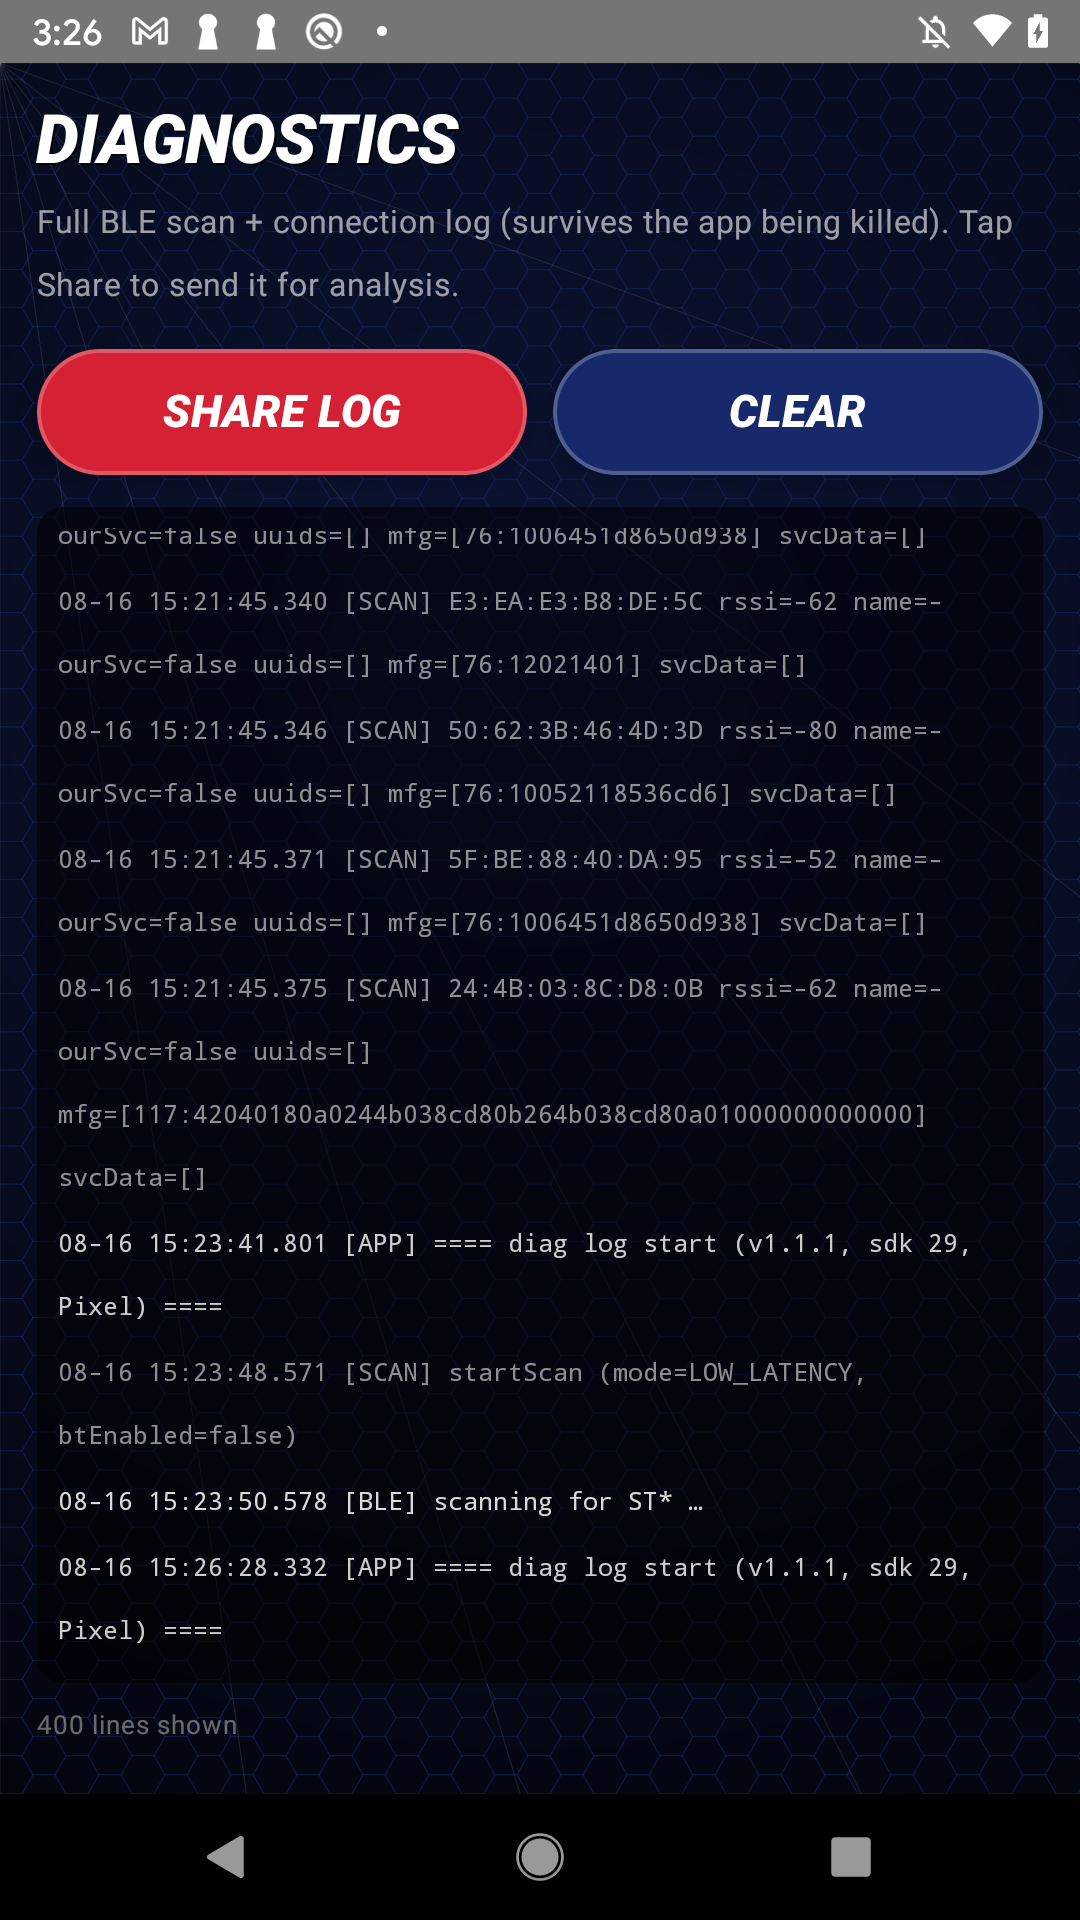
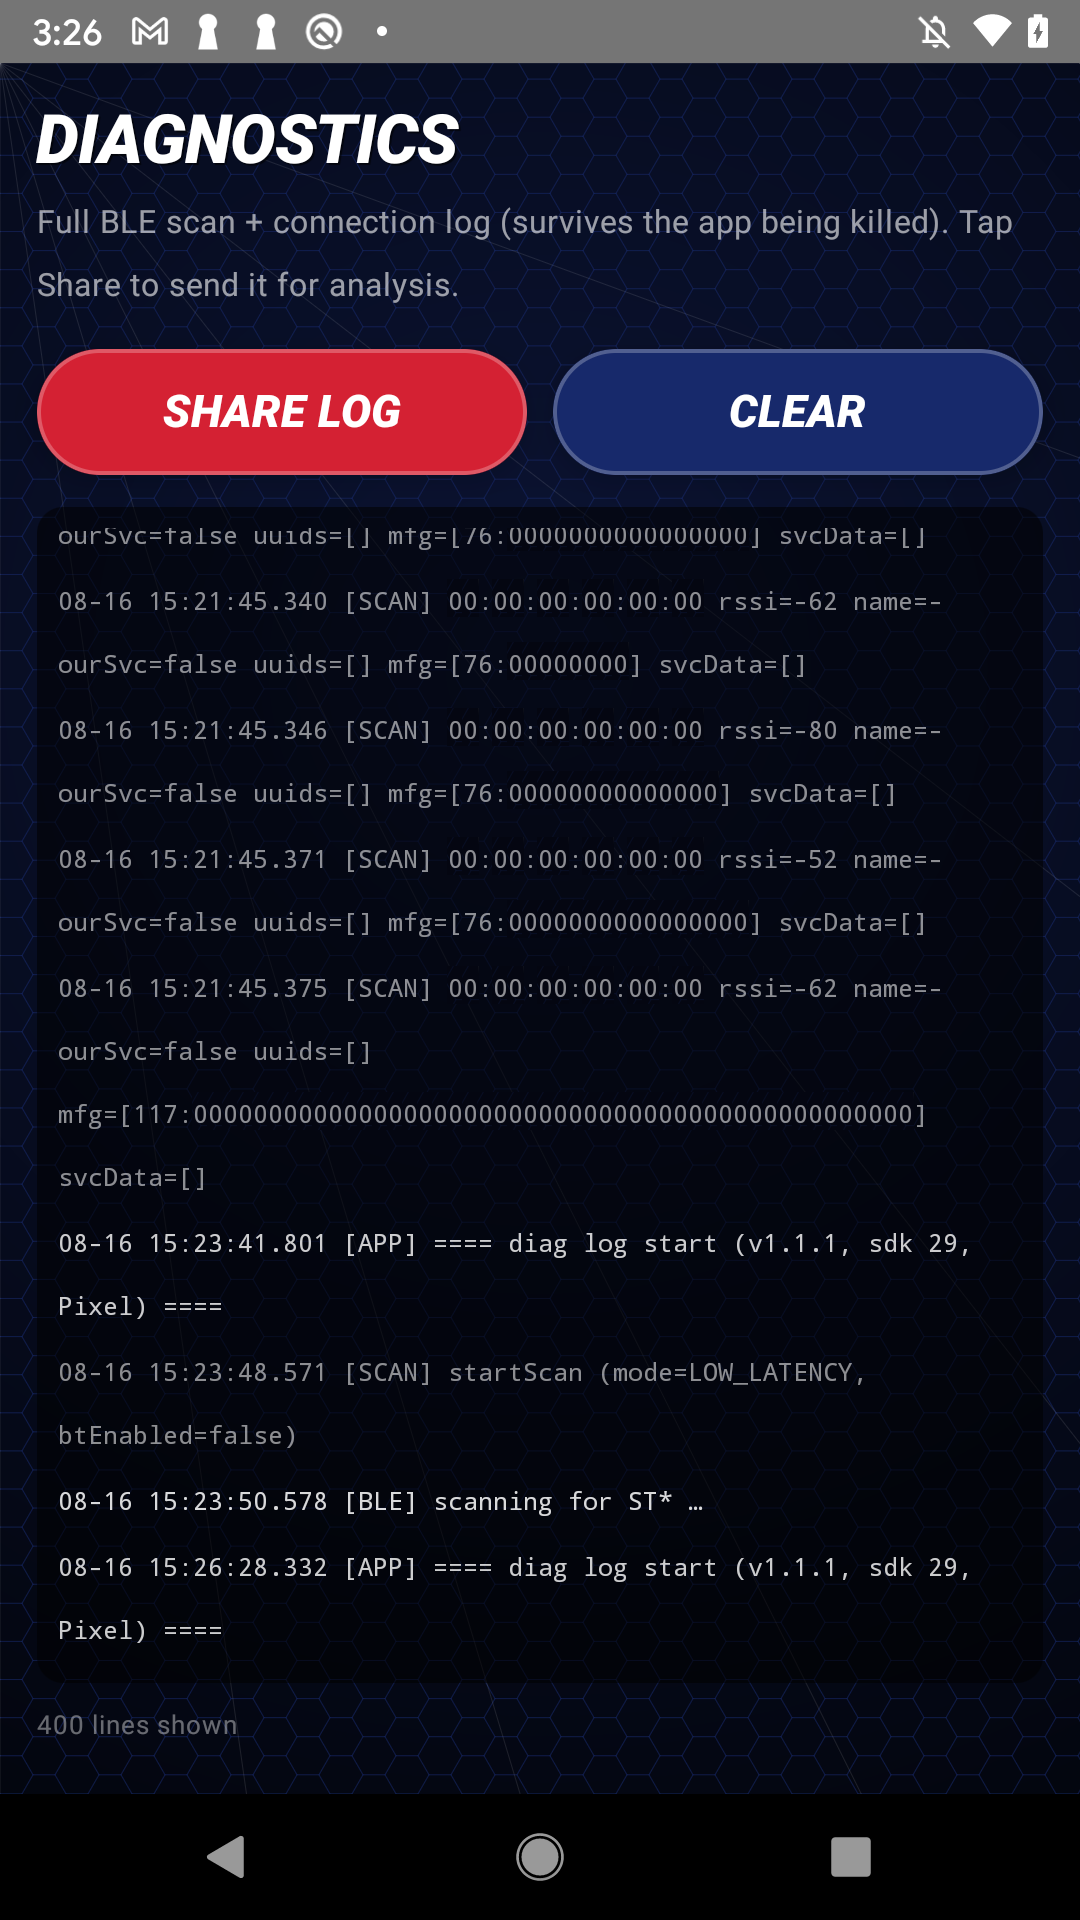
Docs: remove device identifiers from screenshots and the scan example

diff --git a/docs/getting-started.md b/docs/getting-started.md
@@ -75,9 +75,9 @@ This is the main event, one screen at a time. Follow it top to bottom.
 
 ![The Rescue connect screen with the Scan for my toy button](media/rescue-connect.png)
 
-**6. Your toy appears. Tap it.** It shows up as a name that starts with **`ST`** (for example `ST1e9fda`). Tap that name to connect.
+**6. Your toy appears. Tap it.** It shows up as a name that starts with **`ST`** (for example `STxxxxxx`, where the six characters after `ST` are unique to your toy). Tap that name to connect.
 
-![The toy listed as ST1e9fda in the scan results](media/rescue-found.png)
+![The toy listed by its ST name in the scan results](media/rescue-found.png)
 
 **7. It says "Toy linked." Tap START RESCUE.** A green check and "Toy linked" mean you are connected. Tap the red **START RESCUE** button.
 
